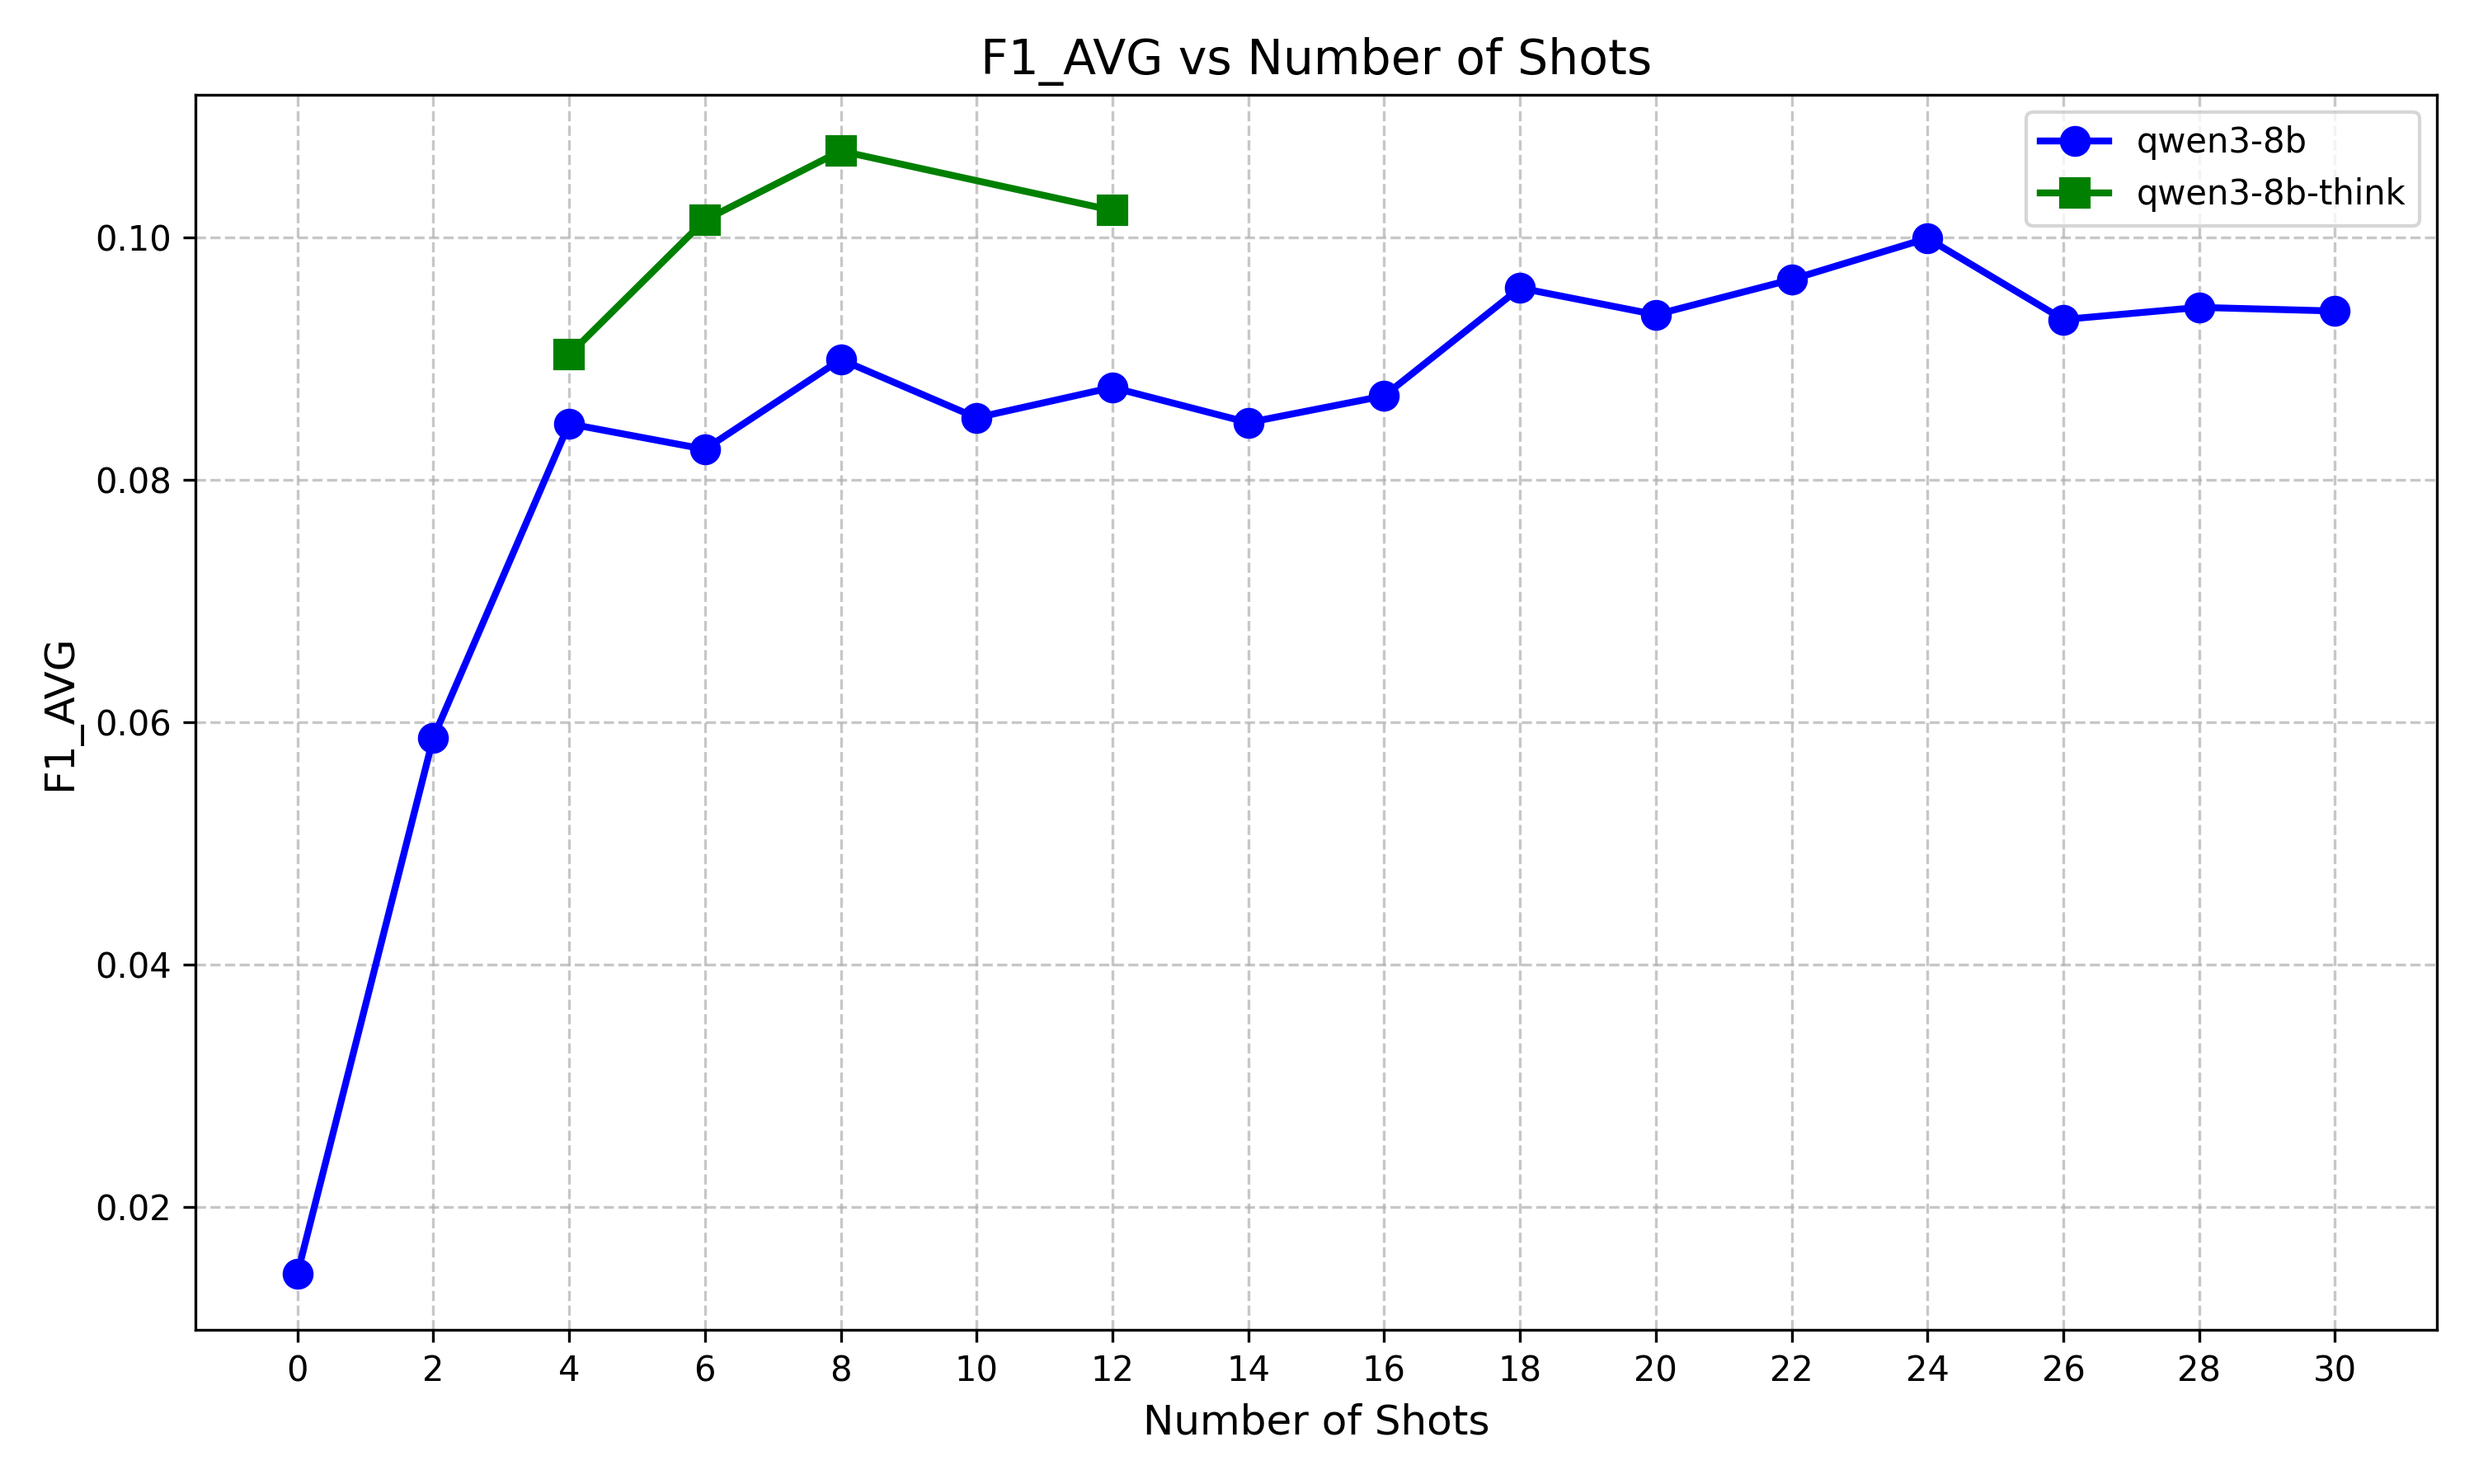
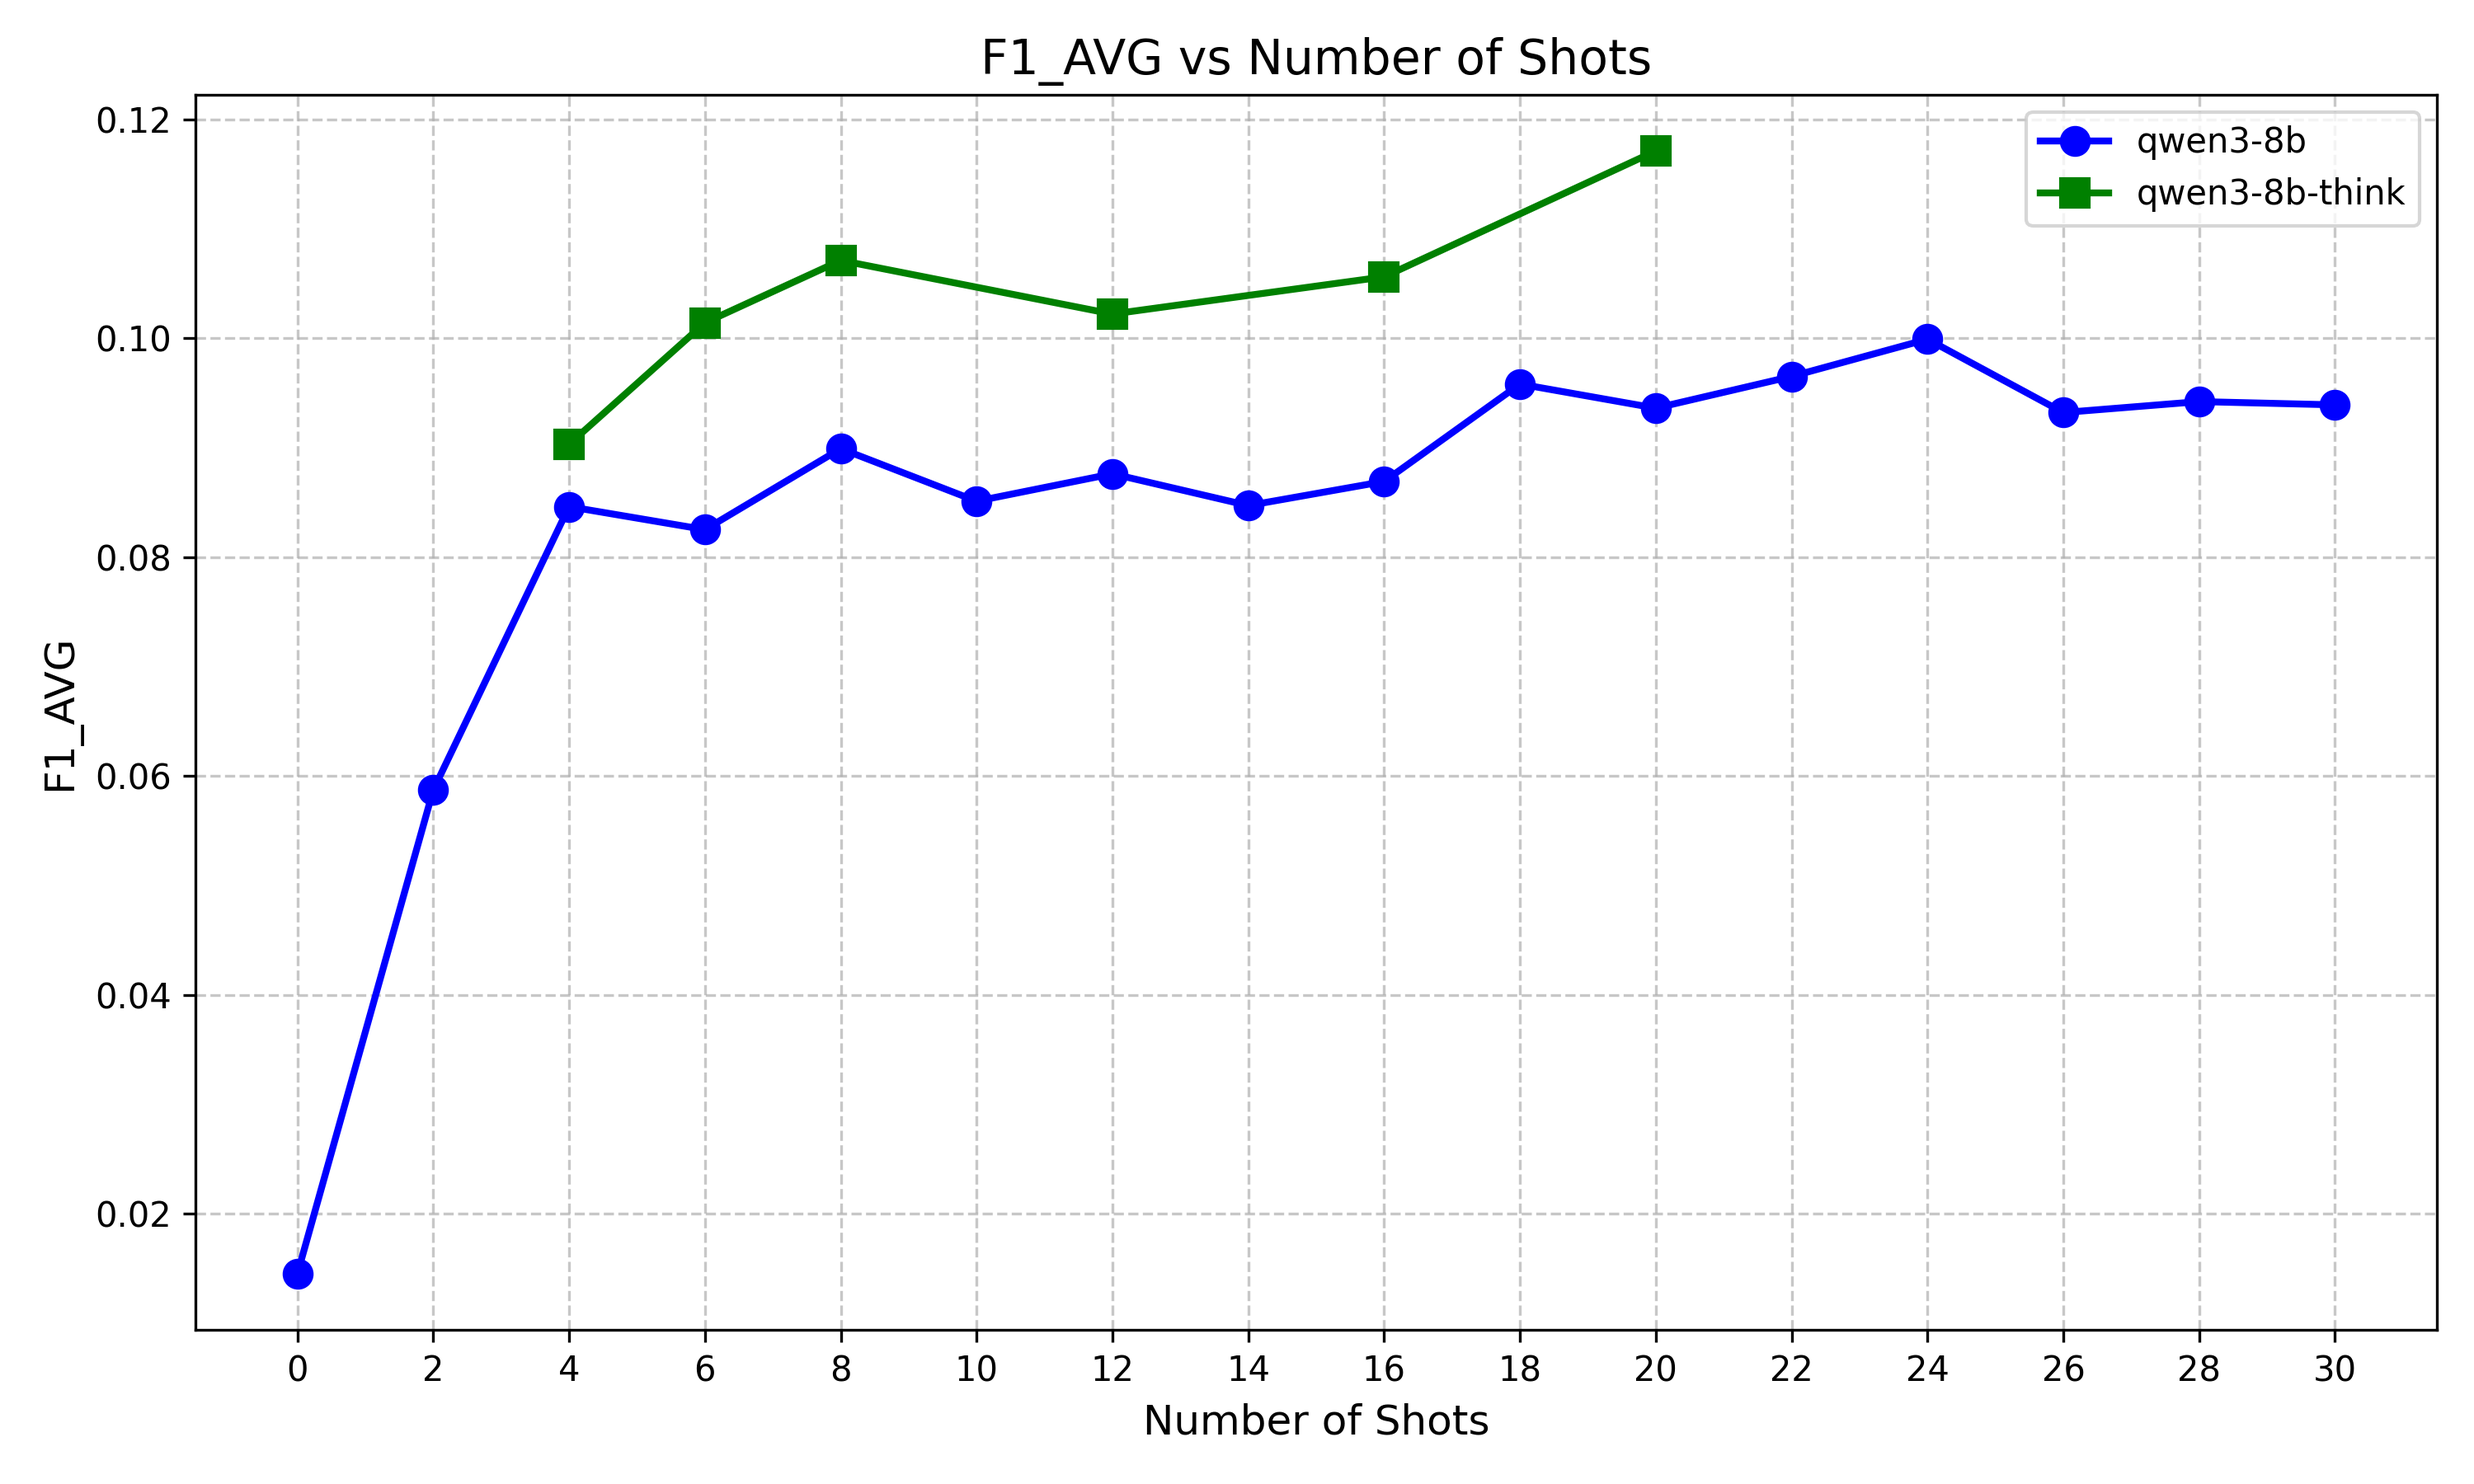
update code

diff --git a/few_shot/run.py b/few_shot/run.py
@@ -680,7 +680,10 @@ if __name__ == "__main__" :
         "enable_thinking": True
     }
 
-    for shot_num in range(16, 24, 4):
+    shots_list = [0, 2, 10, 14, 18, 22, 24, 26, 28, 30]
+
+    for shot_num in shots_list:
+        # print(shot_num)
         tester.run(llm_params=params, shot_num=shot_num)
 
     # tester.run(llm_params=params, shot_num=10)
